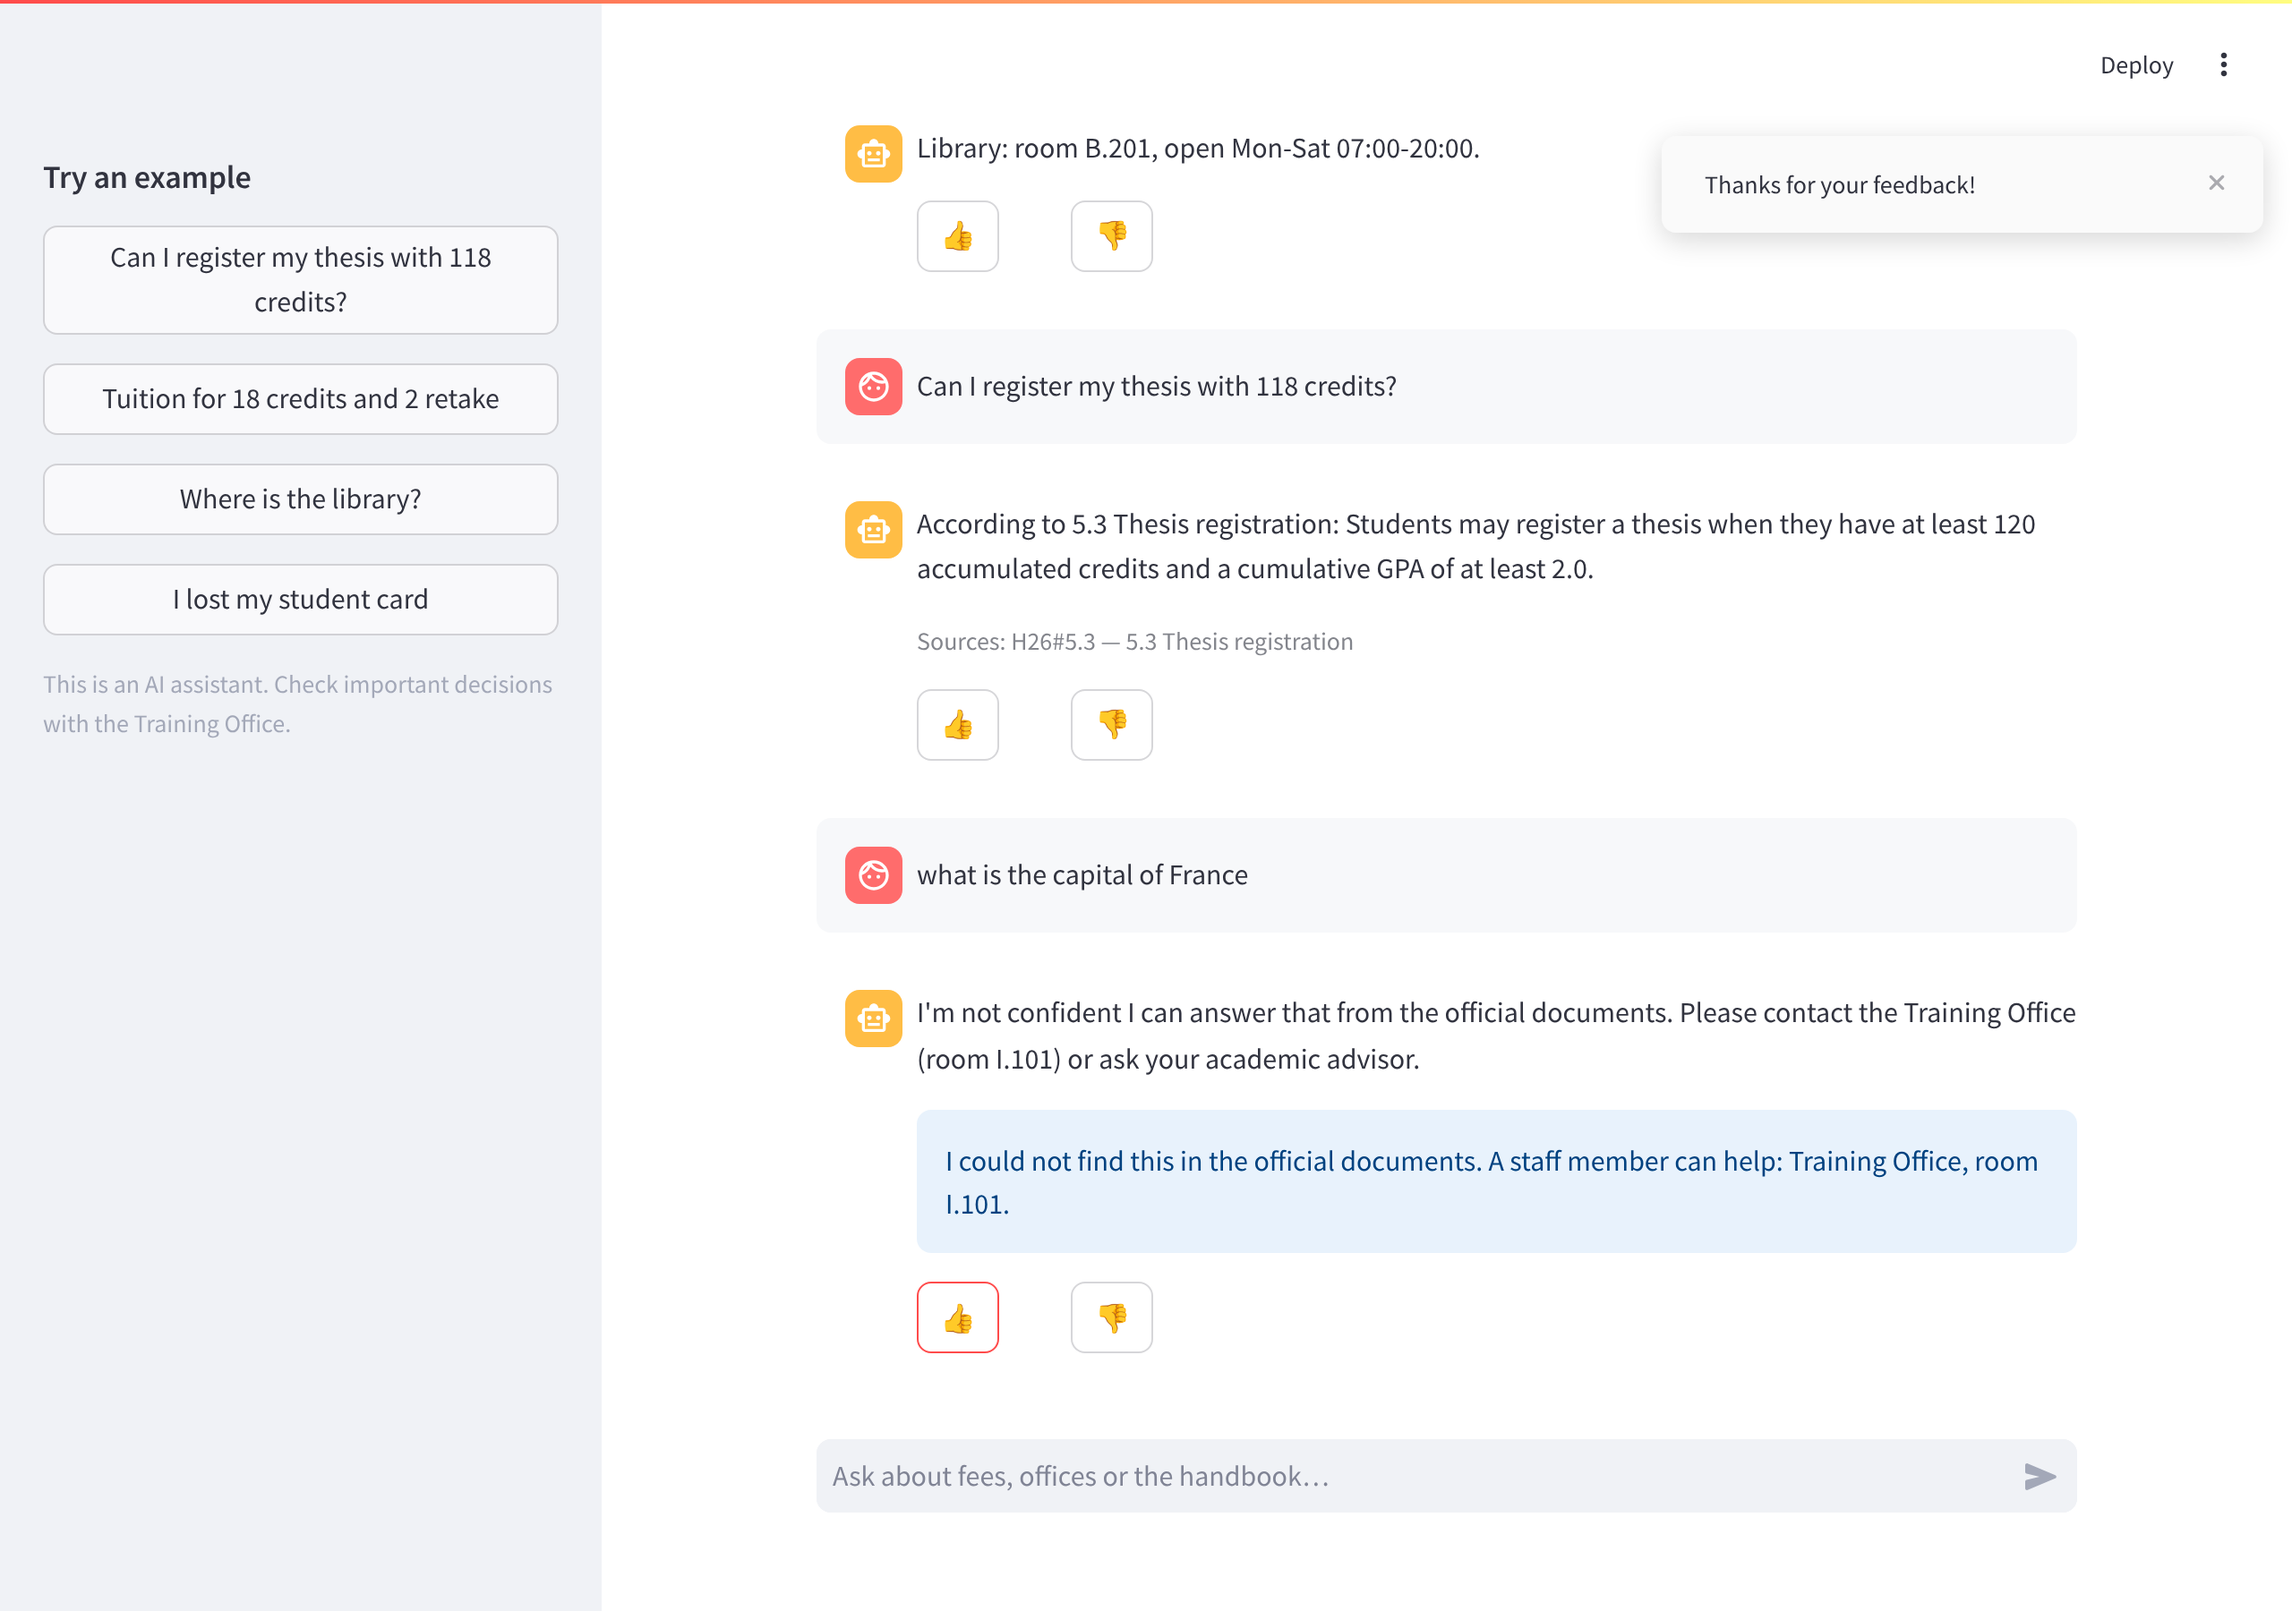
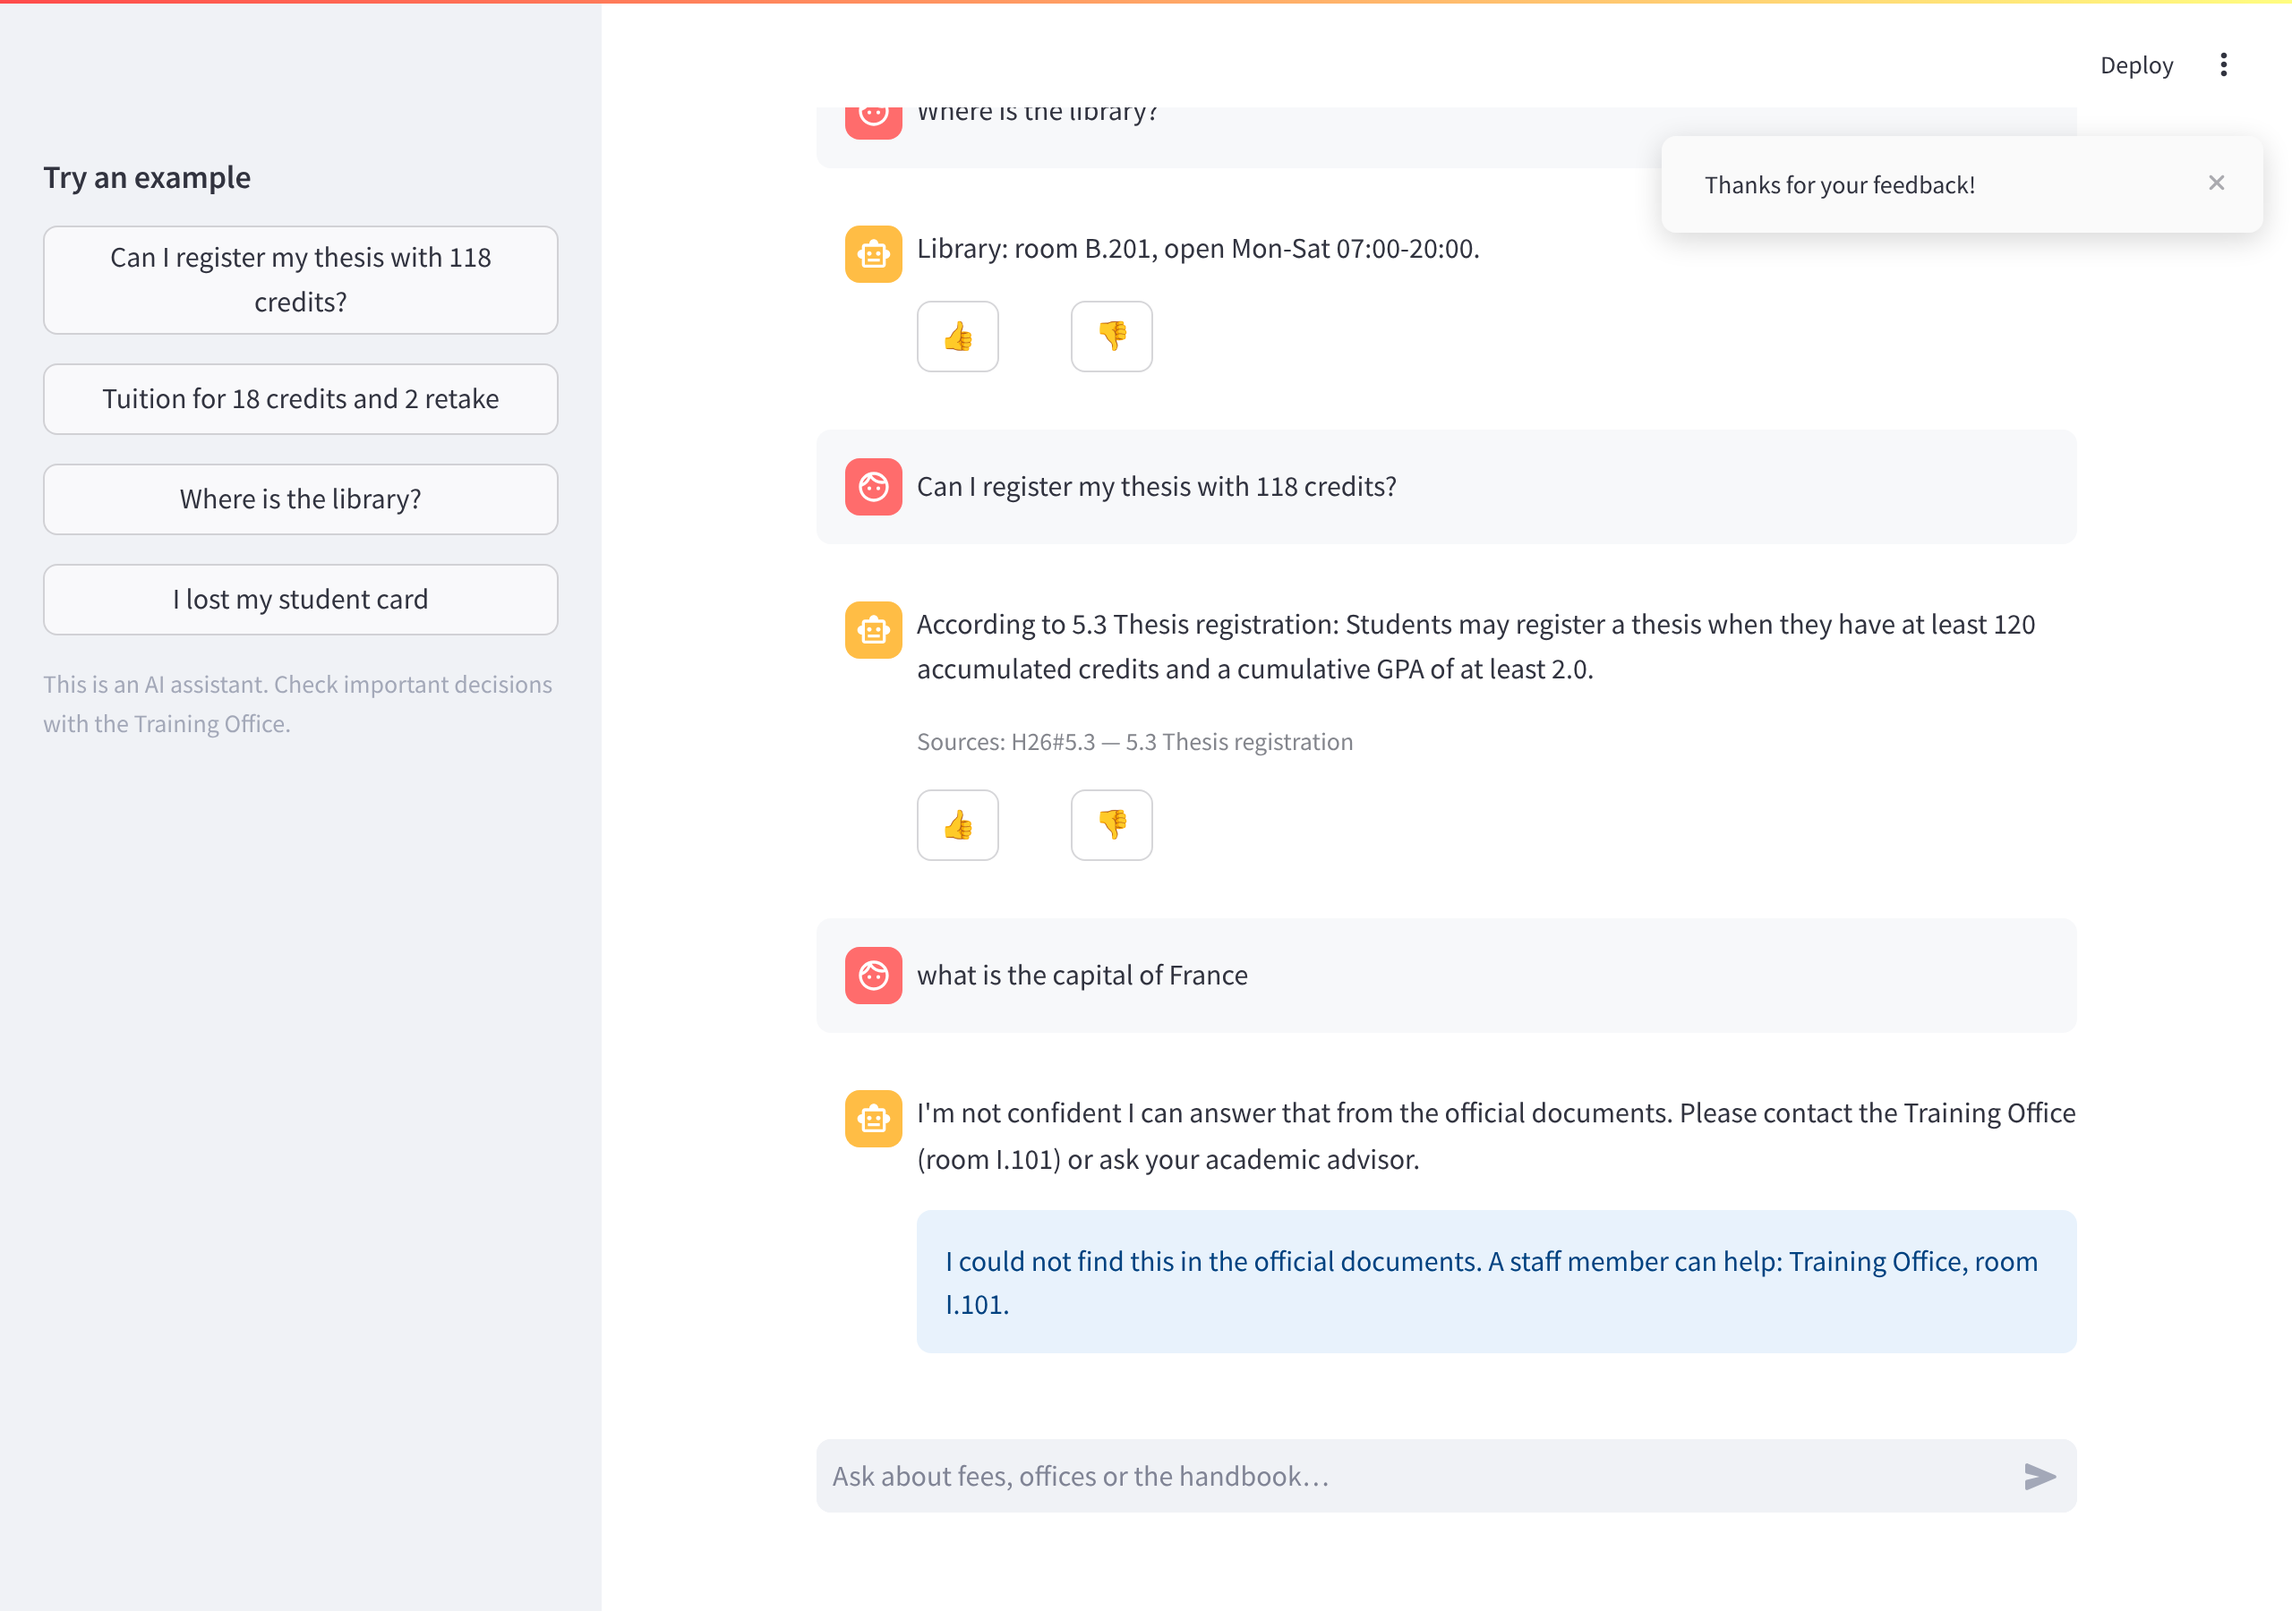
fix(ui): hide 👍/👎 buttons right after a click
Move the feedback handling into an on_click callback so rated is updated
before the page is redrawn; retake D.4 row 5 and F1 screenshots.

Refs #70

Claude-Session: https://claude.ai/code/session_015qVimXubcrqiD3Qe8qX7Tj

diff --git a/ui/app.py b/ui/app.py
@@ -37,6 +37,14 @@ with st.sidebar:
             st.session_state.pending = ex
     st.caption("This is an AI assistant. Check important decisions with the Training Office.")
 
+
+def rate(rid: str, rating: int, thanks: str) -> None:
+    """Button callback: send feedback once, hide this answer's buttons, say thanks."""
+    client.send_feedback(rid, rating)
+    st.session_state.rated.add(rid)
+    st.toast(thanks)
+
+
 # ---- history -------------------------------------------------------------------
 for i, m in enumerate(st.session_state.messages):
     with st.chat_message(m["role"]):
@@ -48,14 +56,9 @@ for i, m in enumerate(st.session_state.messages):
         rid = m.get("request_id")
         if rid and rid not in st.session_state.rated:
             c1, c2, _ = st.columns([1, 1, 6])
-            if c1.button("👍", key=f"up{i}"):
-                client.send_feedback(rid, 1)
-                st.session_state.rated.add(rid)
-                st.toast("Thanks for your feedback!")
-            if c2.button("👎", key=f"down{i}"):
-                client.send_feedback(rid, -1)
-                st.session_state.rated.add(rid)
-                st.toast("Thanks — we will look at this answer.")
+            # on_click runs before the page is redrawn, so the rated answer's buttons disappear at once
+            c1.button("👍", key=f"up{i}", on_click=rate, args=(rid, 1, "Thanks for your feedback!"))
+            c2.button("👎", key=f"down{i}", on_click=rate, args=(rid, -1, "Thanks — we will look at this answer."))
 
 # ---- new question ----------------------------------------------------------------
 question = st.chat_input("Ask about fees, offices or the handbook…") or st.session_state.pop("pending", None)

diff --git a/docs/lab7/states-duchuy.md b/docs/lab7/states-duchuy.md
@@ -2,7 +2,7 @@
 
 Chạy 2 server từ thư mục gốc repo: `uvicorn assistant_api.main:create_app --factory` (port 8000, `LLM_PROVIDER=stub`)
 và `streamlit run ui/app.py` (port 8501), mở trang trong Chromium (cửa sổ 1280×900). Code: branch `lab7/duchuy-core`
-(L1, L2, F1 đã làm; `pytest -q tests/test_ui.py` 7 passed).
+(L1, L2, F1 đã làm; `pytest -q tests/test_ui.py` 7 passed; nút 👍/👎 xử lý bằng `on_click` callback, xem ghi chú).
 
 | # | Thử | Thấy gì | Đúng chưa | Ảnh |
 |---|---|---|---|---|
@@ -10,16 +10,17 @@ và `streamlit run ui/app.py` (port 8501), mở trang trong Chromium (cửa sổ
 | 2 | "Can I register my thesis with 118 credits?" | Trả lời "...at least 120 accumulated credits and a cumulative GPA of at least 2.0." và dòng `Sources: H26#5.3 — 5.3 Thesis registration` | Đúng | ![2](img/duchuy-d4-2-thesis-sources.png) |
 | 3 | "what is the capital of France" | Trả lời "I'm not confident…" và ô note xanh "I could not find this in the official documents. A staff member can help: Training Office, room I.101." | Đúng | ![3](img/duchuy-d4-3-escalation.png) |
 | 4 | Enter khi ô trống | Không có tin nhắn mới (số tin nhắn 7 → 7). Ảnh giống hệt dòng 3 vì trang không thay đổi; chỉ có khoảng trắng thì hiện cảnh báo "Please type a question." | Đúng | ![4](img/duchuy-d4-4-empty-enter.png) |
-| 5 | Bấm 👍 ở câu trả lời cuối | Toast "Thanks for your feedback!". Nút 👍 👎 của câu đó **chưa biến mất ngay**, chỉ biến mất ở lần tương tác tiếp theo (rerun sau) | Toast đúng; nút biến mất trễ 1 lần rerun (xem ghi chú) | ![5](img/duchuy-d4-5-thumbs-up.png) |
+| 5 | Bấm 👍 ở câu trả lời cuối | Toast "Thanks for your feedback!", nút 👍 👎 của câu đó biến mất ngay (đếm nút 👍: 3 → 2) | Đúng (sau khi sửa, xem ghi chú) | ![5](img/duchuy-d4-5-thumbs-up.png) |
 | 6 | Tắt API (Ctrl+C terminal 1) rồi hỏi "Where is the library?" | Câu trả lời "⚠ Cannot reach the assistant. Is the backend running?", trang không crash | Đúng | ![6](img/duchuy-d4-6-api-down.png) |
 
 Thêm F1: bấm 👎 ở câu trả lời đầu tiên → toast "Thanks — we will look at this answer.", feedback `-1` được gửi (backend ghi 1 dòng rating -1 vào bảng `feedback`).
-Nút biến mất trễ giống 👍.
+Nút của câu đó biến mất ngay (👎: 2 → 1). Bấm 2 lần thì API nhận đúng 2 lần `POST /v1/feedback` 201, không gửi trùng.
 
 ![F1](img/duchuy-d4-f1-thumbs-down.png)
 
-**Ghi chú dòng 5.** Code của starter không gọi `st.rerun()` sau khi bấm: lần chạy xử lý cú bấm đã vẽ nút xong rồi mới
-thêm `rid` vào `st.session_state.rated`, nên nút chỉ ẩn ở lần rerun sau (đếm nút 👍: 3 → 3 ngay sau khi bấm, → 2 sau
-lần tương tác kế tiếp). Feedback vẫn chỉ gửi 1 lần vì lần sau `rid` đã nằm trong `rated`. Cách sửa nếu muốn nút ẩn
-ngay: chuyển phần xử lý sang `on_click=` callback (callback chạy trước khi vẽ lại trang). Chưa sửa ở PR này để giữ
-đúng bản F1 của đề và tránh conflict với bản `ui/app.py` được merge vào `main`.
+**Ghi chú dòng 5.** Lần thử đầu với code F1 theo đúng TODO của starter (`if c1.button(...): ...`), toast hiện nhưng nút
+**chưa biến mất ngay**: lần chạy xử lý cú bấm đã vẽ nút xong rồi mới thêm `rid` vào `st.session_state.rated`, nên nút
+chỉ ẩn ở lần rerun sau (đếm nút 👍: 3 → 3 ngay sau khi bấm). Đã sửa trong `ui/app.py`: chuyển phần xử lý của cả 👍 và 👎
+sang hàm `rate()` gọi qua `on_click=`. Callback chạy **trước** khi Streamlit vẽ lại trang, nên lúc vẽ `rid` đã nằm trong
+`rated` và nút biến mất ngay. F1 vẫn đúng yêu cầu: `key=f"down{i}"`, gửi `send_feedback(rid, -1)`, thêm vào `rated`, toast.
+Ảnh dòng 5 và F1 là ảnh chụp sau khi sửa.

diff --git a/docs/ai-use-log.md b/docs/ai-use-log.md
@@ -33,4 +33,4 @@
 | 2026-11-20 | Gia Huy (wiih0521) | OpenAI Codex | PR #53 integration readiness | Used Codex to merge main df84c0d, resolve four conflicts while preserving shared fixes and both eval/log additions, and run verification (278 tests passed; merged eval 26/30 retrieval/stub). Author accepted the documented answer-quality trade-offs and requested opening review. |
 | 2026-11-20 | THA (hoanganhtu0922) | Claude Code | Lab 6, branches lab6/hoanganh-core | pick the H1 cases E41, E43, add section 5 (RAG) to docs/architecture.md. Checked by hand: pytest 233 passed, compare_paths.py gives 7/16/16 on E01–E20 and 9/20/20 on 25 cases, E15 is routed to the office lookup, and E43 scores below 2.0 so it abstains. |
 | 2026-11-20 | Gia Huy (wiih0521) | OpenAI Codex | PR #53 final integration after #65 | At the author request, used Codex to merge #65 first, integrate main into H3, preserve all 45 eval cases and team logs, and verify 289 tests passed with retrieval/stub 40/45 before merging #53. |
-| 2026-11-27 | Đức Huy (npdwuy) | Claude Code | Lab 7 PR 1, branch lab7/duchuy-core, issue #70 | Used Claude Code to fill in U1–U4, L1 format_sources, L2 status_note and the F1 👎 button, run pytest (4 passed warm-up, 7 passed tests/test_ui.py, 296 passed full suite), ruff check and ruff format --check, then run both servers and drive the UI in headless Chromium through the six D.4 states, a too-long input and a 375 px window to take the screenshots and draft states-duchuy.md and usability_checklist-duchuy.md. Found that 👍/👎 buttons only disappear on the next rerun. A separate Claude Code subagent then re-checked everything independently (tests, UI states, feedback rows in the DB, screenshots) and caught a ruff format failure, fixed before pushing. The hallway test is left for the member to do in person. Retained pending member review. |
+| 2026-11-27 | Đức Huy (npdwuy) | Claude Code | Lab 7 PR 1, branch lab7/duchuy-core, issue #70 | Used Claude Code to fill in U1–U4, L1 format_sources, L2 status_note and the F1 👎 button, run pytest (4 passed warm-up, 7 passed tests/test_ui.py, 296 passed full suite), ruff check and ruff format --check, then run both servers and drive the UI in headless Chromium through the six D.4 states, a too-long input and a 375 px window to take the screenshots and draft states-duchuy.md and usability_checklist-duchuy.md. Found that 👍/👎 buttons only disappeared on the next rerun and moved both handlers into an on_click callback so they disappear at once (re-checked in the browser, 2 clicks = 2 feedback POSTs). A separate Claude Code subagent then re-checked everything independently (tests, UI states, feedback rows in the DB, screenshots) and caught a ruff format failure, fixed before pushing. The hallway test is left for the member to do in person. Retained pending member review. |

diff --git a/docs/lab7/usability_checklist-duchuy.md b/docs/lab7/usability_checklist-duchuy.md
@@ -8,7 +8,7 @@ Kiểm tra trên branch `lab7/duchuy-core`, 2 server chạy local, Chromium 1280
 - [x] Every answer from documents shows its sources — `Sources: H26#5.3 — 5.3 Thesis registration` (D.4 dòng 2)
 - [x] "I don't know" answers tell the user who can help (escalation) — Training Office, room I.101 (D.4 dòng 3)
 - [x] If the backend is down, the page says so clearly — đầu trang có banner đỏ "The assistant backend is not reachable. Start it with: uvicorn …", câu trả lời là "⚠ Cannot reach the assistant. Is the backend running?" (D.4 dòng 6; ảnh dòng 6 cuộn xuống nên không thấy banner)
-- [x] Each answer has 👍 / 👎, and clicking gives a "thanks" message — có cả 2 nút, toast cảm ơn; nút chỉ ẩn ở lần rerun sau (ghi chú trong `states-duchuy.md`)
+- [x] Each answer has 👍 / 👎, and clicking gives a "thanks" message — có cả 2 nút, toast cảm ơn, nút biến mất ngay sau khi bấm (sửa bằng `on_click`, ghi chú trong `states-duchuy.md`)
 - [x] The page says it is an AI assistant — sidebar: "This is an AI assistant. Check important decisions with the Training Office."
 - [x] Text is readable (size, contrast); buttons have clear labels — chữ mặc định của Streamlit, nút ví dụ có chữ đầy đủ
 - [x] Works on a phone-width window — 375 px không bị cuộn ngang (`scrollWidth` = 375), ảnh bên dưới; ở điện thoại sidebar bị thu gọn nên câu ví dụ nằm sau nút `>`, câu chào vẫn có 1 ví dụ
